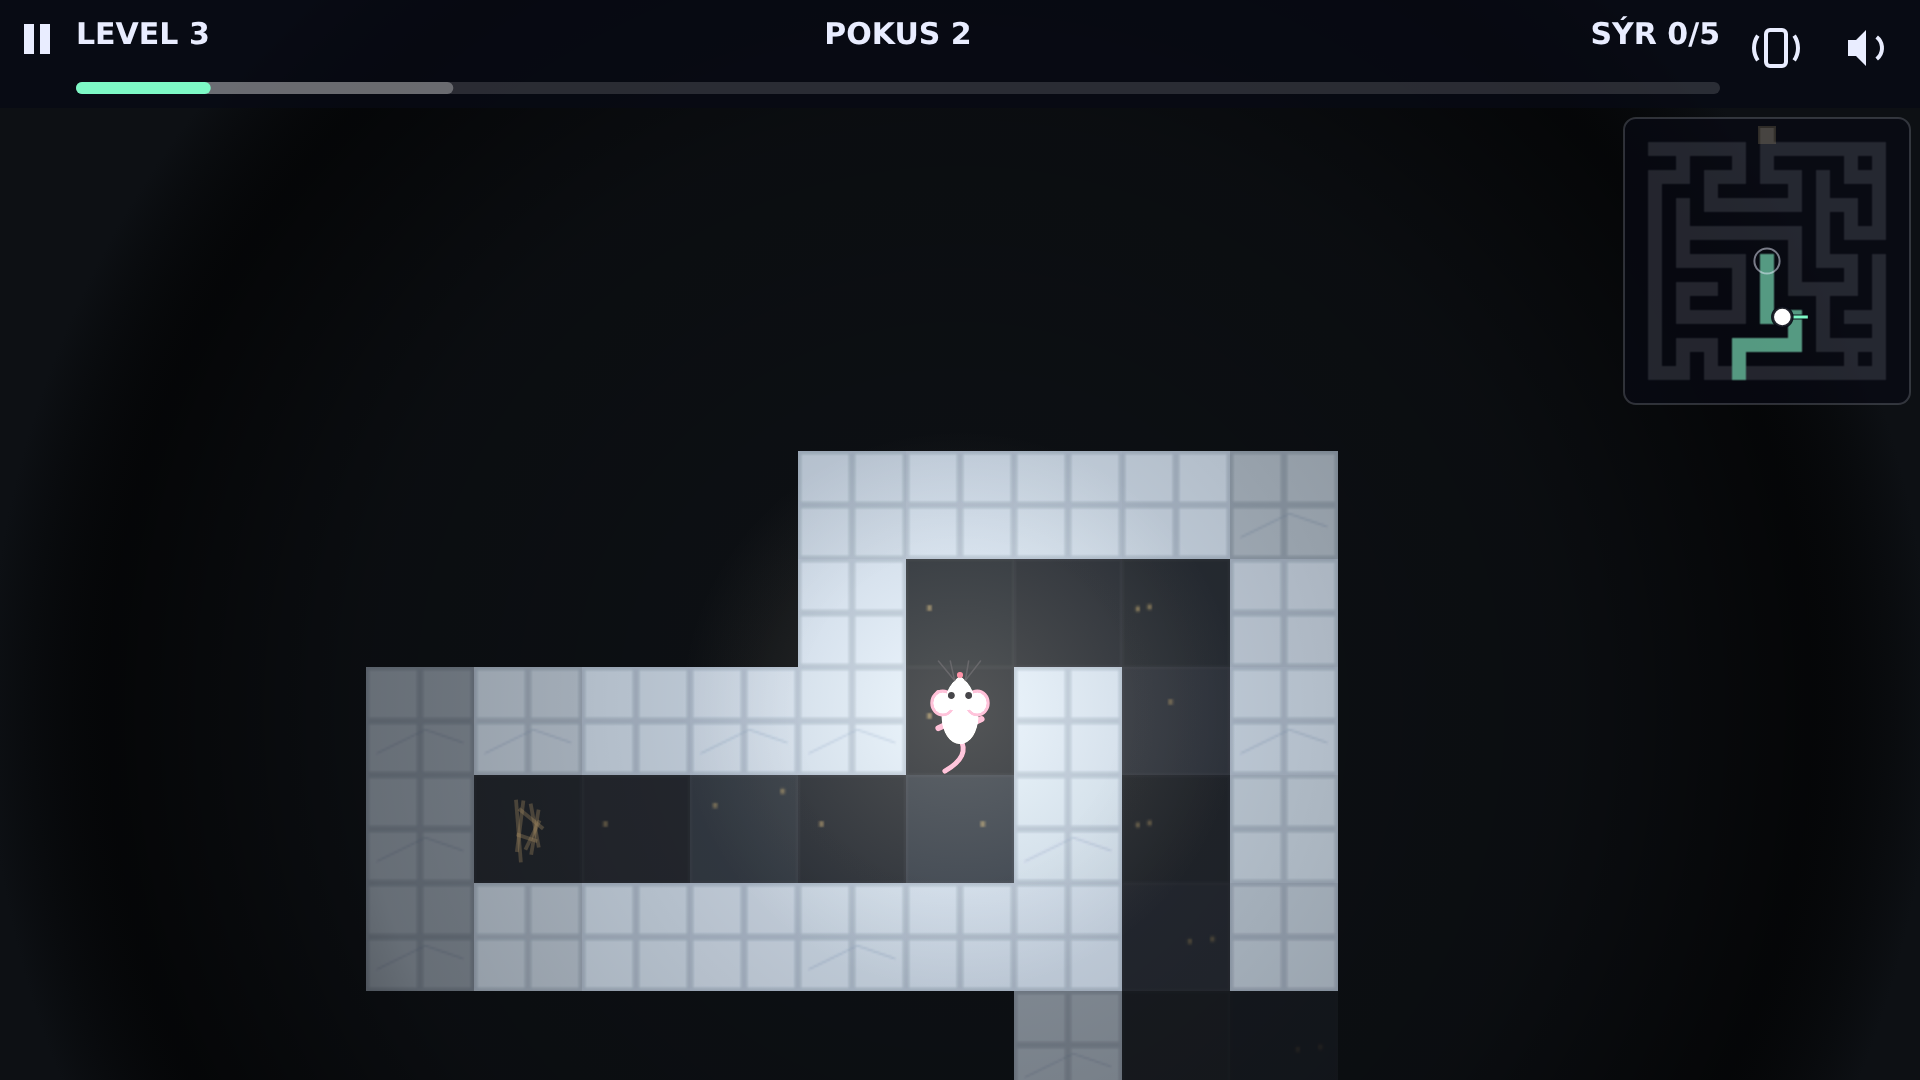
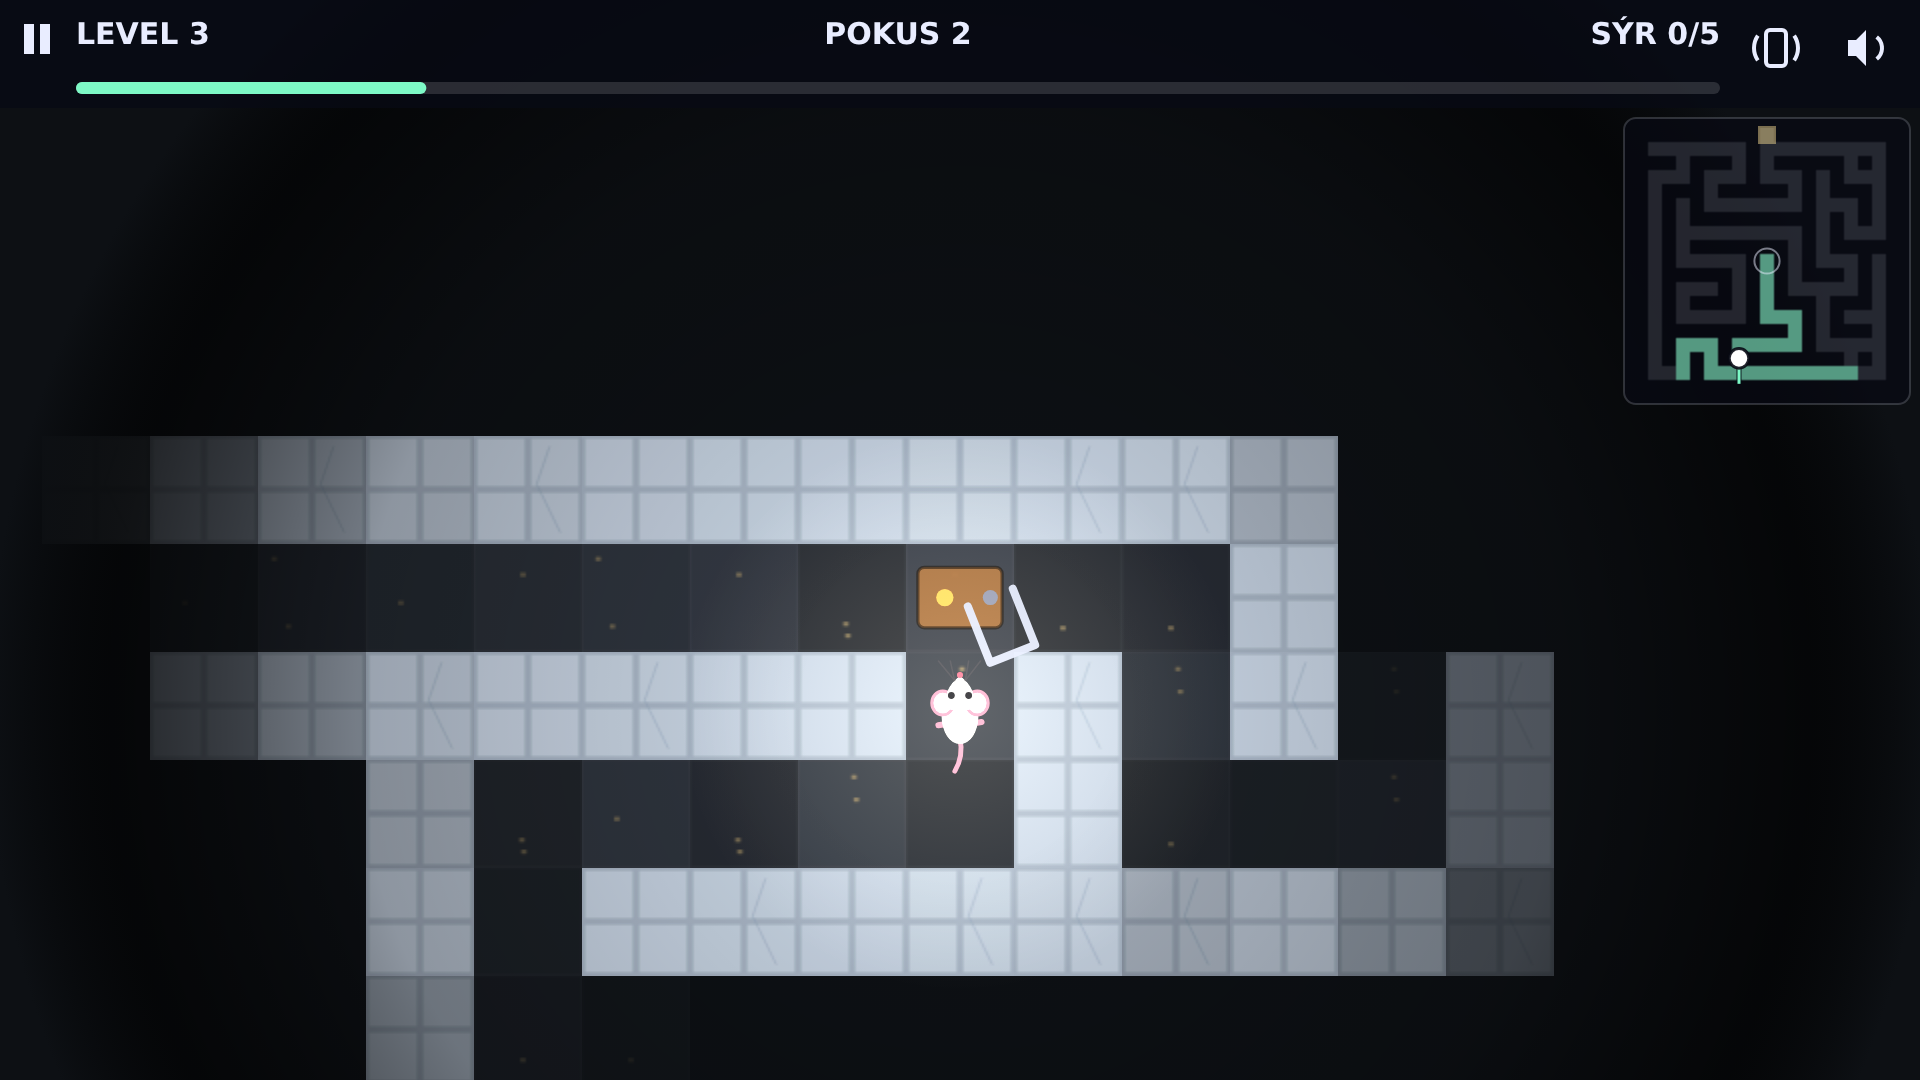
Ještě pomalejší běh a pozvolnější otáčení labyrintu
Rychlost běhu dolů o další třetinu (BASE_SPEED 3.5 -> 2.35) a otáčení
kamery z 10 na 5 rad/s: čtvrtotáčka teď trvá kolem 0,3 s, tedy déle, než
se ujede kus chodby, takže se labyrint stáčí pozvolna místo cuknutí.

Se zpomalením musely povolit i pasti. Pomalejší myš je v dosahu pasti
déle, takže cyklus sklapovačky i propadla je delší (2,6 s a 3,4 s) a
kočky jsou mírnější (pomalejší, kratší dohled, dřív ztratí zájem) - v
pomalé hře se před nimi couvá dlouho.

Generátor nově drží mezi nástrahami aspoň dvě volné buňky (SPACING).
Čeká se popobíháním tam a zpátky a otočka padne doprostřed buňky, takže
u dvou pastí obtékajících jedinou volnou buňku nebylo kde počkat -
autopilot na takovém místě umíral a hráč by na tom byl stejně.

Všech deset levelů znovu prochází autopilotem (20-97 s na level).

Claude-Session: https://claude.ai/code/session_01CcDaPvu7YoGwitwUCyUa5w

diff --git a/js/levels/level10.js b/js/levels/level10.js
@@ -1,6 +1,6 @@
 import {Level} from "../level.js";
 
-// Soubor generuje tools/gen_mazes.py (otisk mapy de7aac4d).
+// Soubor generuje tools/gen_mazes.py (otisk mapy 68a16e40).
 // Ruční úpravu generátor podle otisku pozná a soubor nepřepíše;
 // vynutit přegenerování jde přepínačem --force.
 // První argument = rychlost běhu v % základní rychlosti (100 = BASE_SPEED).
@@ -13,9 +13,9 @@ const level10 = new Level(
     "# ##### # # ##### # # ### # ### #",
     "#   #   # #   #   #   #   # #   #",
     "# # # ### ### # # ##### ### #T###",
-    "# #   #     # # # # T #*  #T#   #",
+    "# #   #     # # # # * #H  #C#   #",
     "### ####### # # ### # ### # ### #",
-    "#   #     # # #*  T # # # #  H# #",
+    "#   #     # # #H  T # # # #  H# #",
     "# # # ### # # ####### # # ### # #",
     "# # #   # # # #     # # *     # #",
     "# # ### # ### #T### # ######### #",
@@ -23,21 +23,21 @@ const level10 = new Level(
     "# #S# ######### #*# # # # #######",
     "#       * #   S #   # # #T#     #",
     "####### # # # ##### # # # # ### #",
-    "#CT   C # # # #  P# # # # # # # F",
+    "#**   H # # # #  P# # # # # # # F",
     "# ##### ### ### ### #   # #   # #",
     "# #   #     #   # # #   #     # #",
-    "# #H# ####### ### # # ######  # #",
+    "# #T# ####### ### # # ######  # #",
     "# # #     #   #   # #   #     # #",
     "# # ##### # ### # # ##### # # # #",
-    "#   #   #   #  H*   #   # # #   #",
+    "#   #   #   #  H    #   # # #   #",
     "####### ##### # ##### # # # ### #",
-    "#     # #  *  # #     # #H# S   #",
-    "#H### # #H### # # # ### # ### ###",
+    "#     # #  *  # #     # #*# S   #",
+    "#T### # #T### # # # ### # ### ###",
     "# #   # # # # # # # # # #   #   #",
     "# # ### # # # # ### # # ### #####",
     "# #     #   #   #   # #   # *   #",
     "# ######### ##### ### ### ##### #",
-    "#      *          #C H          #",
+    "#      H          #C H          #",
     "#################################",
 );
 

diff --git a/js/levels/level8.js b/js/levels/level8.js
@@ -1,6 +1,6 @@
 import {Level} from "../level.js";
 
-// Soubor generuje tools/gen_mazes.py (otisk mapy e146718a).
+// Soubor generuje tools/gen_mazes.py (otisk mapy 920d58e5).
 // Ruční úpravu generátor podle otisku pozná a soubor nepřepíše;
 // vynutit přegenerování jde přepínačem --force.
 // První argument = rychlost běhu v % základní rychlosti (100 = BASE_SPEED).
@@ -8,18 +8,18 @@ const level8 = new Level(
     {speed: 114, theme: 'sewer'},
     "#############################",
     "#  T      #   #            T#",
-    "####### # # # #######*##### #",
+    "####### # # # #######H##### #",
     "#           #     #   # #   #",
     "# ############### # ### # ###",
     "#         #    *#  T#   # # #",
     "# ####### # ########### # # #",
     "# #   #   #         #  H#   #",
     "# # # # # ##### ### # # ### #",
-    "#   # # # #   #  T#*  #  C# #",
+    "#   # # # #   #  T#*  #  *# #",
     "###S### ### # ### # ####### #",
     "#   #   #   # #   #C#   #   #",
     "# ### # #T### # ##### # # ###",
-    "#H# # # # #   #       #   # #",
+    "#*# # # # #   #       #   # #",
     "# # # ### # ##### ###### ## #",
     "# # #   # # #  P# #   #    T#",
     "# # ### # # # ### #  ## # # #",
@@ -27,10 +27,10 @@ const level8 = new Level(
     "# ### # # ##### # ####### # #",
     "# #   # #   #   #       # # #",
     "# # # ##### ### # ##### # # #",
-    "# #*#H# *   #    H#H  #H* # #",
+    "# #*#H# *   #    C#H  #H* # #",
     "### # # # # # ### # ####### #",
     "#   # #     #       #       #",
-    "# #####*##### ####### #######",
+    "# #####H##### ####### #######",
     "#     # # #       #T  #  *  #",
     "# ### # # # # ### # ### ### #",
     "#   #   #       #       #   #",

diff --git a/js/levels/level7.js b/js/levels/level7.js
@@ -1,17 +1,17 @@
 import {Level} from "../level.js";
 
-// Soubor generuje tools/gen_mazes.py (otisk mapy 5f71c113).
+// Soubor generuje tools/gen_mazes.py (otisk mapy 7a1b1ceb).
 // Ruční úpravu generátor podle otisku pozná a soubor nepřepíše;
 // vynutit přegenerování jde přepínačem --force.
 // První argument = rychlost běhu v % základní rychlosti (100 = BASE_SPEED).
 const level7 = new Level(
     {speed: 112, theme: 'kitchen'},
     "###########################",
-    "# #     H       #  T*     #",
+    "# #     T       #  T*     #",
     "# # # ######### # ####### #",
-    "#   # #   #     *H#   #   #",
+    "#   # #   #     H*#   #   #",
     "# ### # ### ####### # #####",
-    "# #   #     #C      #   *T#",
+    "# #   #     #H      #   *T#",
     "# # ### ##### ########### #",
     "#   #       #     #     # #",
     "# ###### ######## # ### # #",
@@ -19,19 +19,19 @@ const level7 = new Level(
     "# # ######### ##### # # # #",
     "# # S   #           #     #",
     "# # ##### ###########T### #",
-    "# # #TC # #* P#         # #",
+    "# # #C* # #* P#         # #",
     "# # # # # # ##### ####### #",
-    "#   H #   # #     #     * #",
+    "#   T #   # #     #       #",
     "# ### ##### # ##### #######",
     "#   #   #   #  S#   #     F",
     "# #####T# ### # # ####### #",
     "# #     # #*  # # # H     #",
-    "### # ###T##### # ### ### #",
+    "### # ###C##### # ### ### #",
     "#   # #   #       #     # #",
     "# ##### ### ###T# # ### # #",
     "#   #   #   #  *# #   #   #",
     "# # # ### # ##### ### # ###",
-    "# #   #   #           #   #",
+    "# #   #   #           #H  #",
     "###########################",
 );
 

diff --git a/js/levels/level5.js b/js/levels/level5.js
@@ -1,6 +1,6 @@
 import {Level} from "../level.js";
 
-// Soubor generuje tools/gen_mazes.py (otisk mapy cf421fbb).
+// Soubor generuje tools/gen_mazes.py (otisk mapy a01ec485).
 // Ruční úpravu generátor podle otisku pozná a soubor nepřepíše;
 // vynutit přegenerování jde přepínačem --force.
 // První argument = rychlost běhu v % základní rychlosti (100 = BASE_SPEED).
@@ -11,23 +11,23 @@ const level5 = new Level(
     "# ### # # ### # # #####",
     "#   #   #   #   #     #",
     "# # ##### ########### #",
-    "#*H #     #         # #",
-    "#*# # ### # ####### # #",
+    "#*T # H   #         # #",
+    "# # # ### # ####### # #",
     "# #     #   # T   #T# #",
     "# ####### ### ### # #*#",
-    "# #   #   T # # * # # #",
+    "# #   # H C # # * # # #",
     "# ### # ##### # ### # #",
     "#   # #   #P# #     # #",
-    "### # ###H# # ####### #",
+    "### # ###*# # ####### #",
     "#   # #   # #   #   S #",
     "# # # # ### ### # ### #",
-    "#   CT#   # #   #     #",
+    "#   **#   # #   #     #",
     "######### # # ####### #",
-    "#     T # # # #   H # #",
+    "#     T # # # #   T # #",
     "# # ### # # # # ### # #",
     "#H#   #   #   #   #   #",
     "# # # ########### ### #",
-    "#   #     *       #*  #",
+    "#   #     H       #   #",
     "#################F#####",
 );
 

diff --git a/js/traps.js b/js/traps.js
@@ -12,13 +12,16 @@
  * když se tady něco změní, musí se to promítnout i tam.
  */
 
-export const SNAP_PERIOD = 2.0;     // perioda sklapovačky (s)
-export const SNAP_CLOSED = 0.70;    // jak dlouho je z toho sklapnutá (s)
-export const SNAP_WARN = 0.35;      // varovné napnutí pružiny těsně před sklapnutím (s)
+// Časy pastí jdou ruku v ruce s rychlostí běhu (`BASE_SPEED`): pomalejší myš je
+// v dosahu pasti déle, takže se se zpomalením hry musí prodloužit i cyklus –
+// jinak by se z čekací hádanky stala zkouška reflexů.
+export const SNAP_PERIOD = 2.6;     // perioda sklapovačky (s)
+export const SNAP_CLOSED = 0.85;    // jak dlouho je z toho sklapnutá (s)
+export const SNAP_WARN = 0.45;      // varovné napnutí pružiny těsně před sklapnutím (s)
 
-export const PIT_PERIOD = 2.6;      // perioda propadla (s)
-export const PIT_OPEN = 1.05;       // jak dlouho je z toho otevřené (s)
-export const PIT_WARN = 0.40;       // vrzání víka před otevřením (s)
+export const PIT_PERIOD = 3.4;      // perioda propadla (s)
+export const PIT_OPEN = 1.30;       // jak dlouho je z toho otevřené (s)
+export const PIT_WARN = 0.50;       // vrzání víka před otevřením (s)
 
 /**
  * Fáze pasti v buňce jako podíl 0–1. Sousední pasti musí spouštět v různý čas –

diff --git a/js/levels/level9.js b/js/levels/level9.js
@@ -1,6 +1,6 @@
 import {Level} from "../level.js";
 
-// Soubor generuje tools/gen_mazes.py (otisk mapy 292667b1).
+// Soubor generuje tools/gen_mazes.py (otisk mapy 7d57047b).
 // Ruční úpravu generátor podle otisku pozná a soubor nepřepíše;
 // vynutit přegenerování jde přepínačem --force.
 // První argument = rychlost běhu v % základní rychlosti (100 = BASE_SPEED).
@@ -23,18 +23,18 @@ const level9 = new Level(
     "### ### # # ##### # ######### #",
     "#   # #   #    P# # #         #",
     "# ### # # ### ### # # ### #####",
-    "#   # H # #     #   #   #  T  #",
+    "#   # * # #     #   #   #  T  #",
     "###*##### # ### # #####H##### #",
     "# #    H  # #   #S#   # #   # #",
     "#T######### # ### # ### # # # #",
     "# #   #   # #     #     #C# # #",
     "# # # #   # ########### ### # #",
-    "# # #H  # # #         #   #*  #",
+    "# # #*  # # #         #   #*  #",
     "#   ##### # ### ##### ### # T #",
     "#   # T # #     #   # # #   # #",
     "# ### # # ####### # # # # ### #",
-    "# #   # #   #     # #*#  T#   #",
-    "# # ### #  ##*# ##### ##### # #",
+    "# #   # #   #     # #H#  T#   #",
+    "# # ### #  ##H# ##### ##### # #",
     "#   #   #     #             #*#",
     "#####F#########################",
 );

diff --git a/js/levels/level6.js b/js/levels/level6.js
@@ -1,6 +1,6 @@
 import {Level} from "../level.js";
 
-// Soubor generuje tools/gen_mazes.py (otisk mapy 7b21d23c).
+// Soubor generuje tools/gen_mazes.py (otisk mapy faf8cebc).
 // Ruční úpravu generátor podle otisku pozná a soubor nepřepíše;
 // vynutit přegenerování jde přepínačem --force.
 // První argument = rychlost běhu v % základní rychlosti (100 = BASE_SPEED).
@@ -11,7 +11,7 @@ const level6 = new Level(
     "# ### # # ### ### # ### #",
     "# # # # # # #   # # #   #",
     "# # # # #T# ### # # # ###",
-    "#   # C     #   # * #*# #",
+    "#   # C     #   # H # # #",
     "### #T##### # ####### # #",
     "# # # #   # #T#         #",
     "# # # # # # # # ### ### #",
@@ -20,10 +20,10 @@ const level6 = new Level(
     "#S#     # # #   # #     F",
     "# ##### # ##### #########",
     "# #   S #   #P#     #   #",
-    "# #C### ### # ##### #   #",
+    "# #*### ### # ##### #   #",
     "# #   # # # # #   #   # #",
     "# ### # # # # # # ##### #",
-    "# #*T # # # #   #   H # #",
+    "# #*T # # # #   #   * # #",
     "# # ### #*# ######### # #",
     "# #     T     H *    H# #",
     "# ### ### ######### # # #",

diff --git a/js/levels/level3.js b/js/levels/level3.js
@@ -1,6 +1,6 @@
 import {Level} from "../level.js";
 
-// Soubor generuje tools/gen_mazes.py (otisk mapy b4df9284).
+// Soubor generuje tools/gen_mazes.py (otisk mapy 1e90b78d).
 // Ruční úpravu generátor podle otisku pozná a soubor nepřepíše;
 // vynutit přegenerování jde přepínačem --force.
 // První argument = rychlost běhu v % základní rychlosti (100 = BASE_SPEED).
@@ -9,21 +9,21 @@ const level3 = new Level(
     "#########F#########",
     "#       #       T #",
     "### ### # ##### # #",
-    "#*  #   #   # #H  #",
+    "#*  #   #   # #*  #",
     "# ### ##### # ### #",
-    "# # #T      #   # #",
+    "# # #*      #   # #",
     "# # ######### # # #",
     "# #         # #   #",
     "# #S####### # #####",
-    "# #   *T#P# #   # #",
+    "# #   T*#P# #   # #",
     "# ##### # # ### # #",
     "# #   # # #     # #",
-    "# # ###*# ###*### #",
+    "# # ###*# ###H### #",
     "#T#  T  #   # #   #",
     "# ######### # ### #",
     "# #   #     #     #",
     "# # # # ####### # #",
-    "#   #  H       *  #",
+    "#   #  T       H  #",
     "###################",
 );
 

diff --git a/js/levels/level2.js b/js/levels/level2.js
@@ -1,6 +1,6 @@
 import {Level} from "../level.js";
 
-// Soubor generuje tools/gen_mazes.py (otisk mapy 7b0c0ba9).
+// Soubor generuje tools/gen_mazes.py (otisk mapy dffc2d1d).
 // Ruční úpravu generátor podle otisku pozná a soubor nepřepíše;
 // vynutit přegenerování jde přepínačem --force.
 // První argument = rychlost běhu v % základní rychlosti (100 = BASE_SPEED).
@@ -9,7 +9,7 @@ const level2 = new Level(
     "#################",
     "#     #         #",
     "# ##### ### #####",
-    "#   H #   # H T #",
+    "#   T #   # * T #",
     "##### ### ##### #",
     "#T    #       # #",
     "# ##### ##### # #",
@@ -21,7 +21,7 @@ const level2 = new Level(
     "### ###*  ##### #",
     "#   # #   #     #",
     "# ### ##### ### #",
-    "#    *    *T#   #",
+    "#    H    H*#   #",
     "#############F###",
 );
 

diff --git a/js/levels/level1.js b/js/levels/level1.js
@@ -1,6 +1,6 @@
 import {Level} from "../level.js";
 
-// Soubor generuje tools/gen_mazes.py (otisk mapy cdbb478a).
+// Soubor generuje tools/gen_mazes.py (otisk mapy 7d434ad9).
 // Ruční úpravu generátor podle otisku pozná a soubor nepřepíše;
 // vynutit přegenerování jde přepínačem --force.
 // První argument = rychlost běhu v % základní rychlosti (100 = BASE_SPEED).
@@ -9,9 +9,9 @@ const level1 = new Level(
     "###############",
     "#  *#         #",
     "# ### ##### # #",
-    "# # * #   # # #",
+    "# # T #   # # #",
     "# # ### # # ###",
-    "# # * # #T# T #",
+    "# # * # #*# T #",
     "# ### # # ### #",
     "#   # #P      #",
     "# # # ##### # #",

diff --git a/js/levels/level4.js b/js/levels/level4.js
@@ -1,6 +1,6 @@
 import {Level} from "../level.js";
 
-// Soubor generuje tools/gen_mazes.py (otisk mapy 8d726519).
+// Soubor generuje tools/gen_mazes.py (otisk mapy bd52e55f).
 // Ruční úpravu generátor podle otisku pozná a soubor nepřepíše;
 // vynutit přegenerování jde přepínačem --force.
 // První argument = rychlost běhu v % základní rychlosti (100 = BASE_SPEED).
@@ -23,7 +23,7 @@ const level4 = new Level(
     "# ##### ######### # #",
     "#  T# #           # #",
     "### # ###### ## # # #",
-    "# # #  H   *  # # # #",
+    "# # #  *   H  # # # #",
     "# # ####### # # # # #",
     "#S     T    # #     #",
     "#####################",
